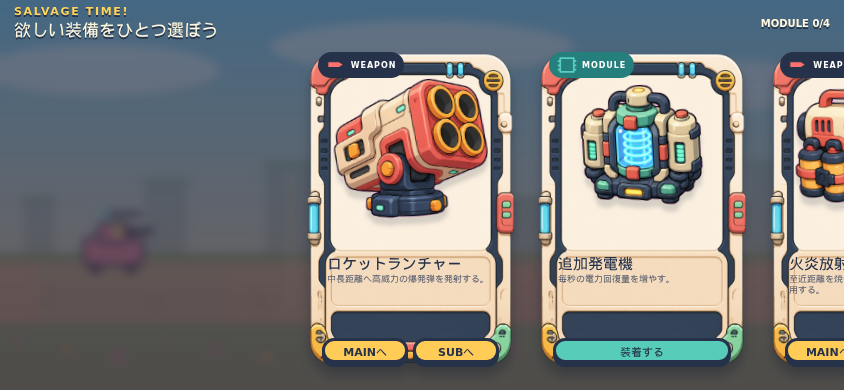
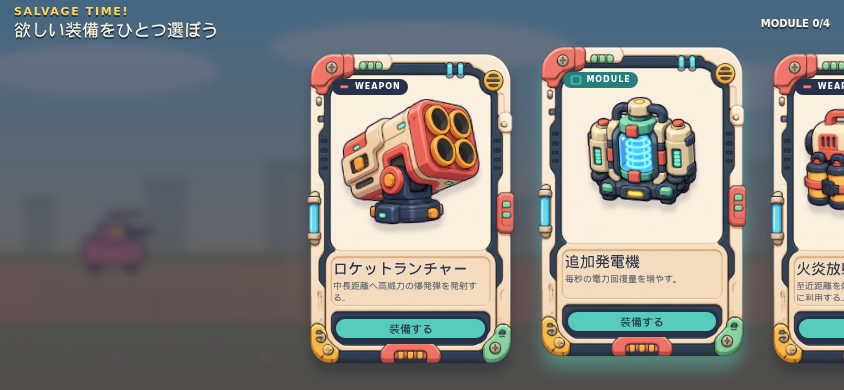
fix: redesign reward card equipment flow

diff --git a/src/app/game.css b/src/app/game.css
@@ -461,35 +461,34 @@ button {
 .reward-type {
   position: absolute;
   z-index: 1;
-  top: 2.5%;
-  left: 8%;
+  top: 10.5%;
+  left: 14.5%;
   display: flex;
   align-items: center;
-  gap: 5px;
-  justify-self: start;
+  gap: 4px;
   border-radius: 99px;
   background: #263249;
   color: white;
-  padding: 3px 8px;
+  padding: 2px 7px;
   font-size: clamp(8px, 2.8cqw, 11px);
   font-weight: 1000;
   letter-spacing: 0.12em;
 }
 .reward-type svg {
-  width: 20px;
-  height: 20px;
+  width: clamp(12px, 4.5cqw, 17px);
+  height: clamp(12px, 4.5cqw, 17px);
 }
 .reward-module .reward-type {
   background: #257f7d;
 }
 .equipment-visual {
   position: absolute;
-  top: 8%;
-  right: 10%;
-  left: 10%;
+  top: 15.5%;
+  right: 14%;
+  left: 14%;
   display: grid;
   place-items: center;
-  height: 52%;
+  height: 44.5%;
 }
 .equipment-visual .equipment-glyph {
   width: 94%;
@@ -511,27 +510,28 @@ button {
 }
 .reward-card h2 {
   position: absolute;
-  top: 63%;
-  right: 12%;
-  left: 12%;
+  top: 65.5%;
+  right: 15%;
+  left: 15%;
   margin: 0;
   color: #263249;
-  font-size: clamp(14px, 6cqw, 22px);
+  font-size: clamp(14px, 5.4cqw, 21px);
+  line-height: 1.1;
 }
 .reward-card p {
   position: absolute;
-  top: 69%;
-  right: 12%;
-  left: 12%;
-  max-height: 10%;
+  top: 71.5%;
+  right: 15%;
+  left: 15%;
+  max-height: 5.8%;
   overflow: hidden;
   margin: 0;
   color: #5a6070;
-  font-size: clamp(9px, 3.4cqw, 13px);
+  font-size: clamp(9px, 3.15cqw, 12px);
   font-weight: 700;
+  line-height: 1.25;
 }
 .reward-card > button,
-.reward-actions button,
 .result-panel button {
   border: 3px solid #263249;
   border-radius: 12px;
@@ -543,21 +543,97 @@ button {
   cursor: pointer;
   box-shadow: 0 4px 0 #263249;
 }
-.reward-card > button,
-.reward-actions {
+.reward-card > button {
   position: absolute;
-  right: 10%;
-  bottom: 4%;
-  left: 10%;
+  top: 82%;
+  right: 15%;
+  left: 15%;
   height: 7.5%;
+  padding: 2px 4px;
+  box-shadow: 0 3px 0 #263249;
 }
-.reward-actions {
-  display: flex;
-  gap: 5px;
+.slot-picker {
+  position: absolute;
+  z-index: 4;
+  top: 50%;
+  left: 50%;
+  display: grid;
+  grid-template-columns: minmax(100px, 0.75fr) minmax(170px, 1fr);
+  grid-template-rows: auto auto;
+  gap: 14px 18px;
+  width: min(620px, calc(100% - 32px));
+  padding: 24px;
+  border: 4px solid #263249;
+  border-radius: 28px;
+  background: #fff4d9;
+  color: #263249;
+  box-shadow:
+    0 0 0 100vmax rgb(25 34 51 / 64%),
+    0 12px 0 #263249;
+  transform: translate(-50%, -50%);
+  animation: slot-picker-pop 0.25s both;
 }
-.reward-actions button {
-  flex: 1;
+.slot-picker-visual {
+  grid-row: 1 / 3;
+  display: grid;
+  place-items: center;
+  min-height: 180px;
+  border: 3px solid #263249;
+  border-radius: 20px;
+  background: #f8dfb8;
+}
+.slot-picker-visual .equipment-art,
+.slot-picker-visual .equipment-glyph {
+  width: 90%;
+  height: 90%;
+  object-fit: contain;
+}
+.slot-picker-copy {
+  align-self: end;
+  display: grid;
+}
+.slot-picker-copy span {
+  color: #ef6267;
+  font-size: 11px;
+  font-weight: 1000;
+  letter-spacing: 0.14em;
+}
+.slot-picker-copy strong {
+  font-size: clamp(20px, 3vw, 30px);
+}
+.slot-picker-copy p {
+  margin: 3px 0 0;
+  font-weight: 700;
+}
+.slot-picker-actions {
+  display: grid;
+  grid-template-columns: 1fr 1fr;
+  gap: 8px;
+}
+.slot-picker-actions button,
+.slot-picker-cancel {
+  border: 3px solid #263249;
+  border-radius: 14px;
+  color: #263249;
+  font-weight: 1000;
+  cursor: pointer;
+}
+.slot-picker-actions button {
+  display: grid;
+  padding: 9px;
   background: #ffcc58;
+  font-size: 20px;
+  box-shadow: 0 4px 0 #263249;
+}
+.slot-picker-actions small {
+  font-size: 10px;
+}
+.slot-picker-cancel {
+  position: absolute;
+  top: 12px;
+  right: 14px;
+  padding: 5px 10px;
+  background: #fffaf0;
 }
 .result-panel {
   display: grid;
@@ -606,6 +682,16 @@ button {
   from {
     opacity: 0;
     transform: translateY(25px) scale(0.9);
+  }
+}
+@keyframes slot-picker-pop {
+  from {
+    opacity: 0;
+    transform: translate(-50%, -48%) scale(0.94);
+  }
+  to {
+    opacity: 1;
+    transform: translate(-50%, -50%) scale(1);
   }
 }
 @media (max-width: 1050px), (max-height: 620px) {
@@ -769,6 +855,27 @@ button {
   }
   .reward-card h2 {
     font-size: 15px;
+  }
+  .slot-picker {
+    grid-template-columns: 100px 1fr;
+    gap: 8px 12px;
+    width: min(540px, calc(100% - 24px));
+    padding: 12px;
+    border-width: 3px;
+    border-radius: 20px;
+  }
+  .slot-picker-visual {
+    min-height: 120px;
+  }
+  .slot-picker-copy strong {
+    font-size: 18px;
+  }
+  .slot-picker-copy p {
+    font-size: 11px;
+  }
+  .slot-picker-actions button {
+    padding: 5px;
+    font-size: 16px;
   }
   .battle-clear {
     width: 72vw;

diff --git a/src/app/GameApp.tsx b/src/app/GameApp.tsx
@@ -349,6 +349,18 @@ function RewardPanel({
   moduleNames: string[];
   onChoose: (rewardId: string, weaponSlot?: WeaponSlot) => void;
 }) {
+  const [pendingWeapon, setPendingWeapon] = useState<
+    Extract<RewardChoice, { type: 'weapon' }> | undefined
+  >();
+
+  const beginEquip = (choice: RewardChoice) => {
+    if (choice.type === 'weapon') {
+      setPendingWeapon(choice);
+      return;
+    }
+    onChoose(choice.id);
+  };
+
   return (
     <section className="reward-panel" role="dialog" aria-modal="true">
       <header>
@@ -377,21 +389,47 @@ function RewardPanel({
             </div>
             <h2>{choice.displayName}</h2>
             <p>{choice.description}</p>
-            {choice.type === 'weapon' ? (
-              <div className="reward-actions">
-                <button onClick={() => onChoose(choice.id, 'primary')}>
-                  MAINへ
-                </button>
-                <button onClick={() => onChoose(choice.id, 'secondary')}>
-                  SUBへ
-                </button>
-              </div>
-            ) : (
-              <button onClick={() => onChoose(choice.id)}>装着する</button>
-            )}
+            <button type="button" onClick={() => beginEquip(choice)}>
+              装備する
+            </button>
           </article>
         ))}
       </div>
+      {pendingWeapon && (
+        <section className="slot-picker" aria-label="武器の装着先を選択">
+          <div className="slot-picker-visual">
+            <EquipmentGlyph id={pendingWeapon.weaponId} />
+          </div>
+          <div className="slot-picker-copy">
+            <span>WEAPON SLOT</span>
+            <strong>{pendingWeapon.displayName}</strong>
+            <p>どちらの操作ボタンへ装着しますか？</p>
+          </div>
+          <div className="slot-picker-actions">
+            <button
+              type="button"
+              onClick={() => onChoose(pendingWeapon.id, 'primary')}
+            >
+              <small>主武器</small>
+              MAIN
+            </button>
+            <button
+              type="button"
+              onClick={() => onChoose(pendingWeapon.id, 'secondary')}
+            >
+              <small>副武器</small>
+              SUB
+            </button>
+          </div>
+          <button
+            className="slot-picker-cancel"
+            type="button"
+            onClick={() => setPendingWeapon(undefined)}
+          >
+            戻る
+          </button>
+        </section>
+      )}
     </section>
   );
 }

diff --git a/tests/e2e/combat.spec.ts b/tests/e2e/combat.spec.ts
@@ -78,19 +78,60 @@ for (const viewport of [
       expect(cardBox).not.toBeNull();
       expect(cardBox!.width / cardBox!.height).toBeCloseTo(2 / 3, 2);
       for (const content of [
+        card.locator('.reward-type'),
         card.locator('.equipment-visual'),
         card.locator('h2'),
         card.locator('p'),
-        card.locator('.reward-actions, :scope > button'),
+        card.locator(':scope > button'),
       ]) {
         await expectContained(content, cardBox!);
       }
+      const regions = await Promise.all(
+        [
+          card.locator('.reward-type'),
+          card.locator('.equipment-visual'),
+          card.locator('h2'),
+          card.locator('p'),
+          card.locator(':scope > button'),
+        ].map((region) => region.boundingBox()),
+      );
+      for (
+        let regionIndex = 0;
+        regionIndex < regions.length - 1;
+        regionIndex += 1
+      ) {
+        expect(overlap(regions[regionIndex]!, regions[regionIndex + 1]!)).toBe(
+          false,
+        );
+      }
     }
+    const weaponCard = cards.filter({ hasText: 'WEAPON' }).first();
+    await weaponCard.getByRole('button', { name: '装備する' }).click();
+    const slotPicker = rewards.getByLabel('武器の装着先を選択');
+    await expect(slotPicker).toBeVisible();
+    await expect(
+      slotPicker.getByRole('button', { name: /主武器 MAIN/ }),
+    ).toBeVisible();
+    await expect(
+      slotPicker.getByRole('button', { name: /副武器 SUB/ }),
+    ).toBeVisible();
+    if (process.env.CAPTURE_UI_REVIEW) {
+      await waitForAnimations(slotPicker);
+      await page.screenshot({
+        path: `artifacts/ui/review/reward_slot_${viewport.width}x${viewport.height}.png`,
+      });
+    }
+    await slotPicker.getByRole('button', { name: '戻る' }).click();
+    await expect(slotPicker).toHaveCount(0);
     if (process.env.CAPTURE_UI_REVIEW) {
       await page.screenshot({
         path: `artifacts/ui/review/reward_${viewport.width}x${viewport.height}.png`,
       });
     }
+    await weaponCard.getByRole('button', { name: '装備する' }).click();
+    await slotPicker.getByRole('button', { name: /主武器 MAIN/ }).click();
+    await expect(rewards).toHaveCount(0);
+    await expect(page.getByRole('button', { name: '主武器' })).toBeVisible();
   });
 }
 
